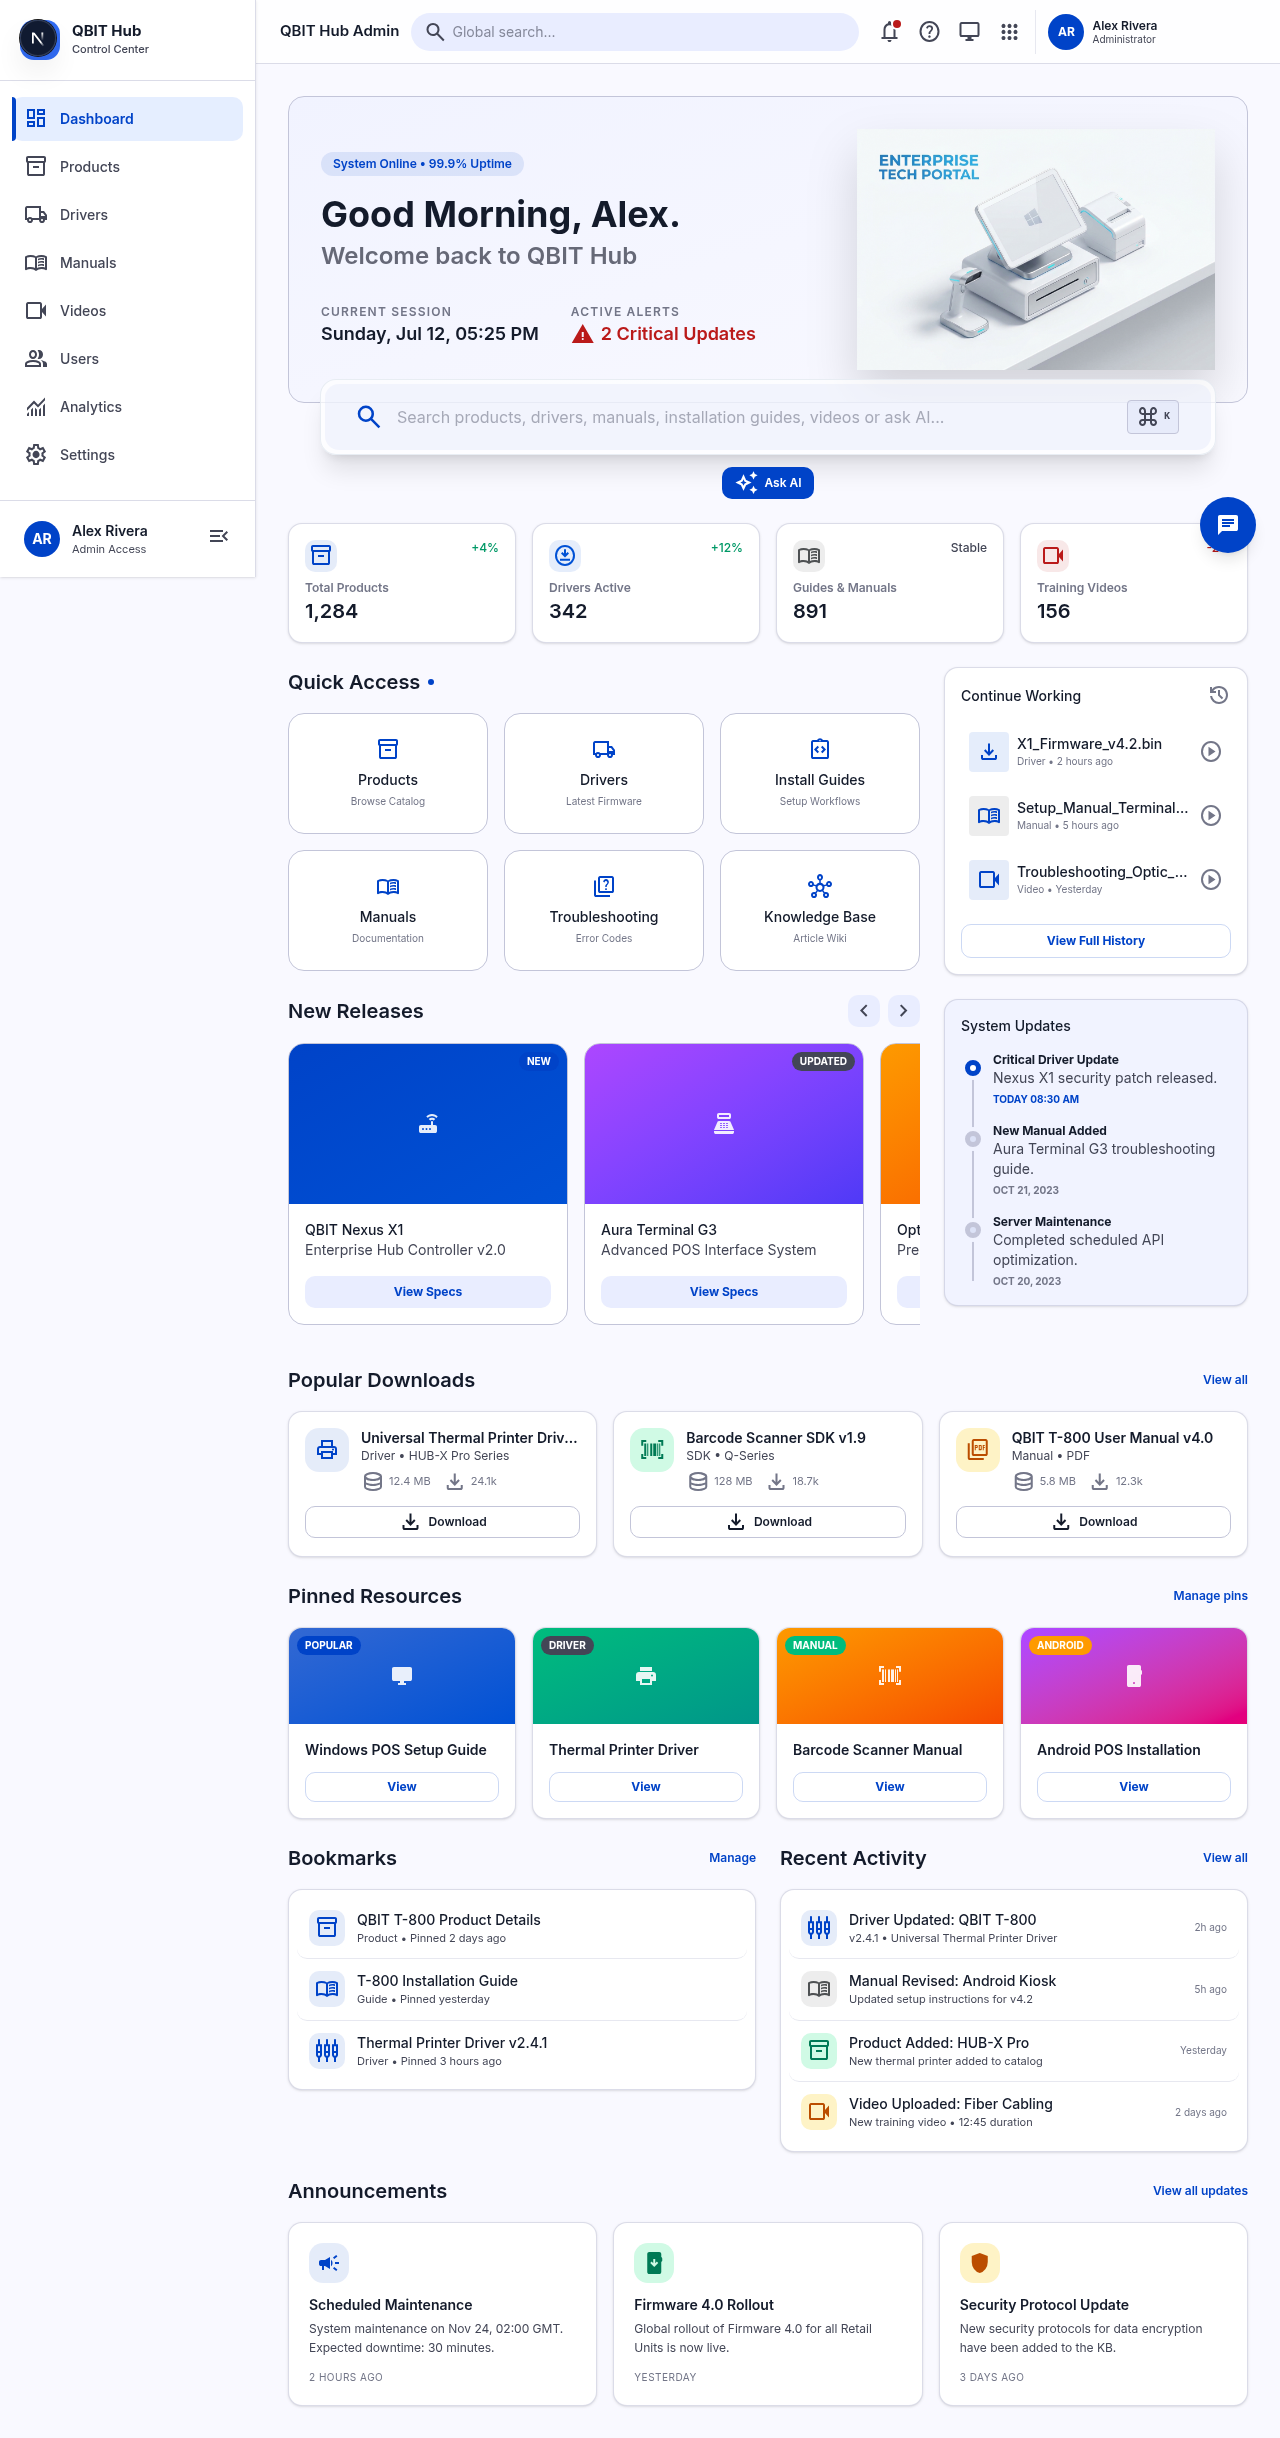
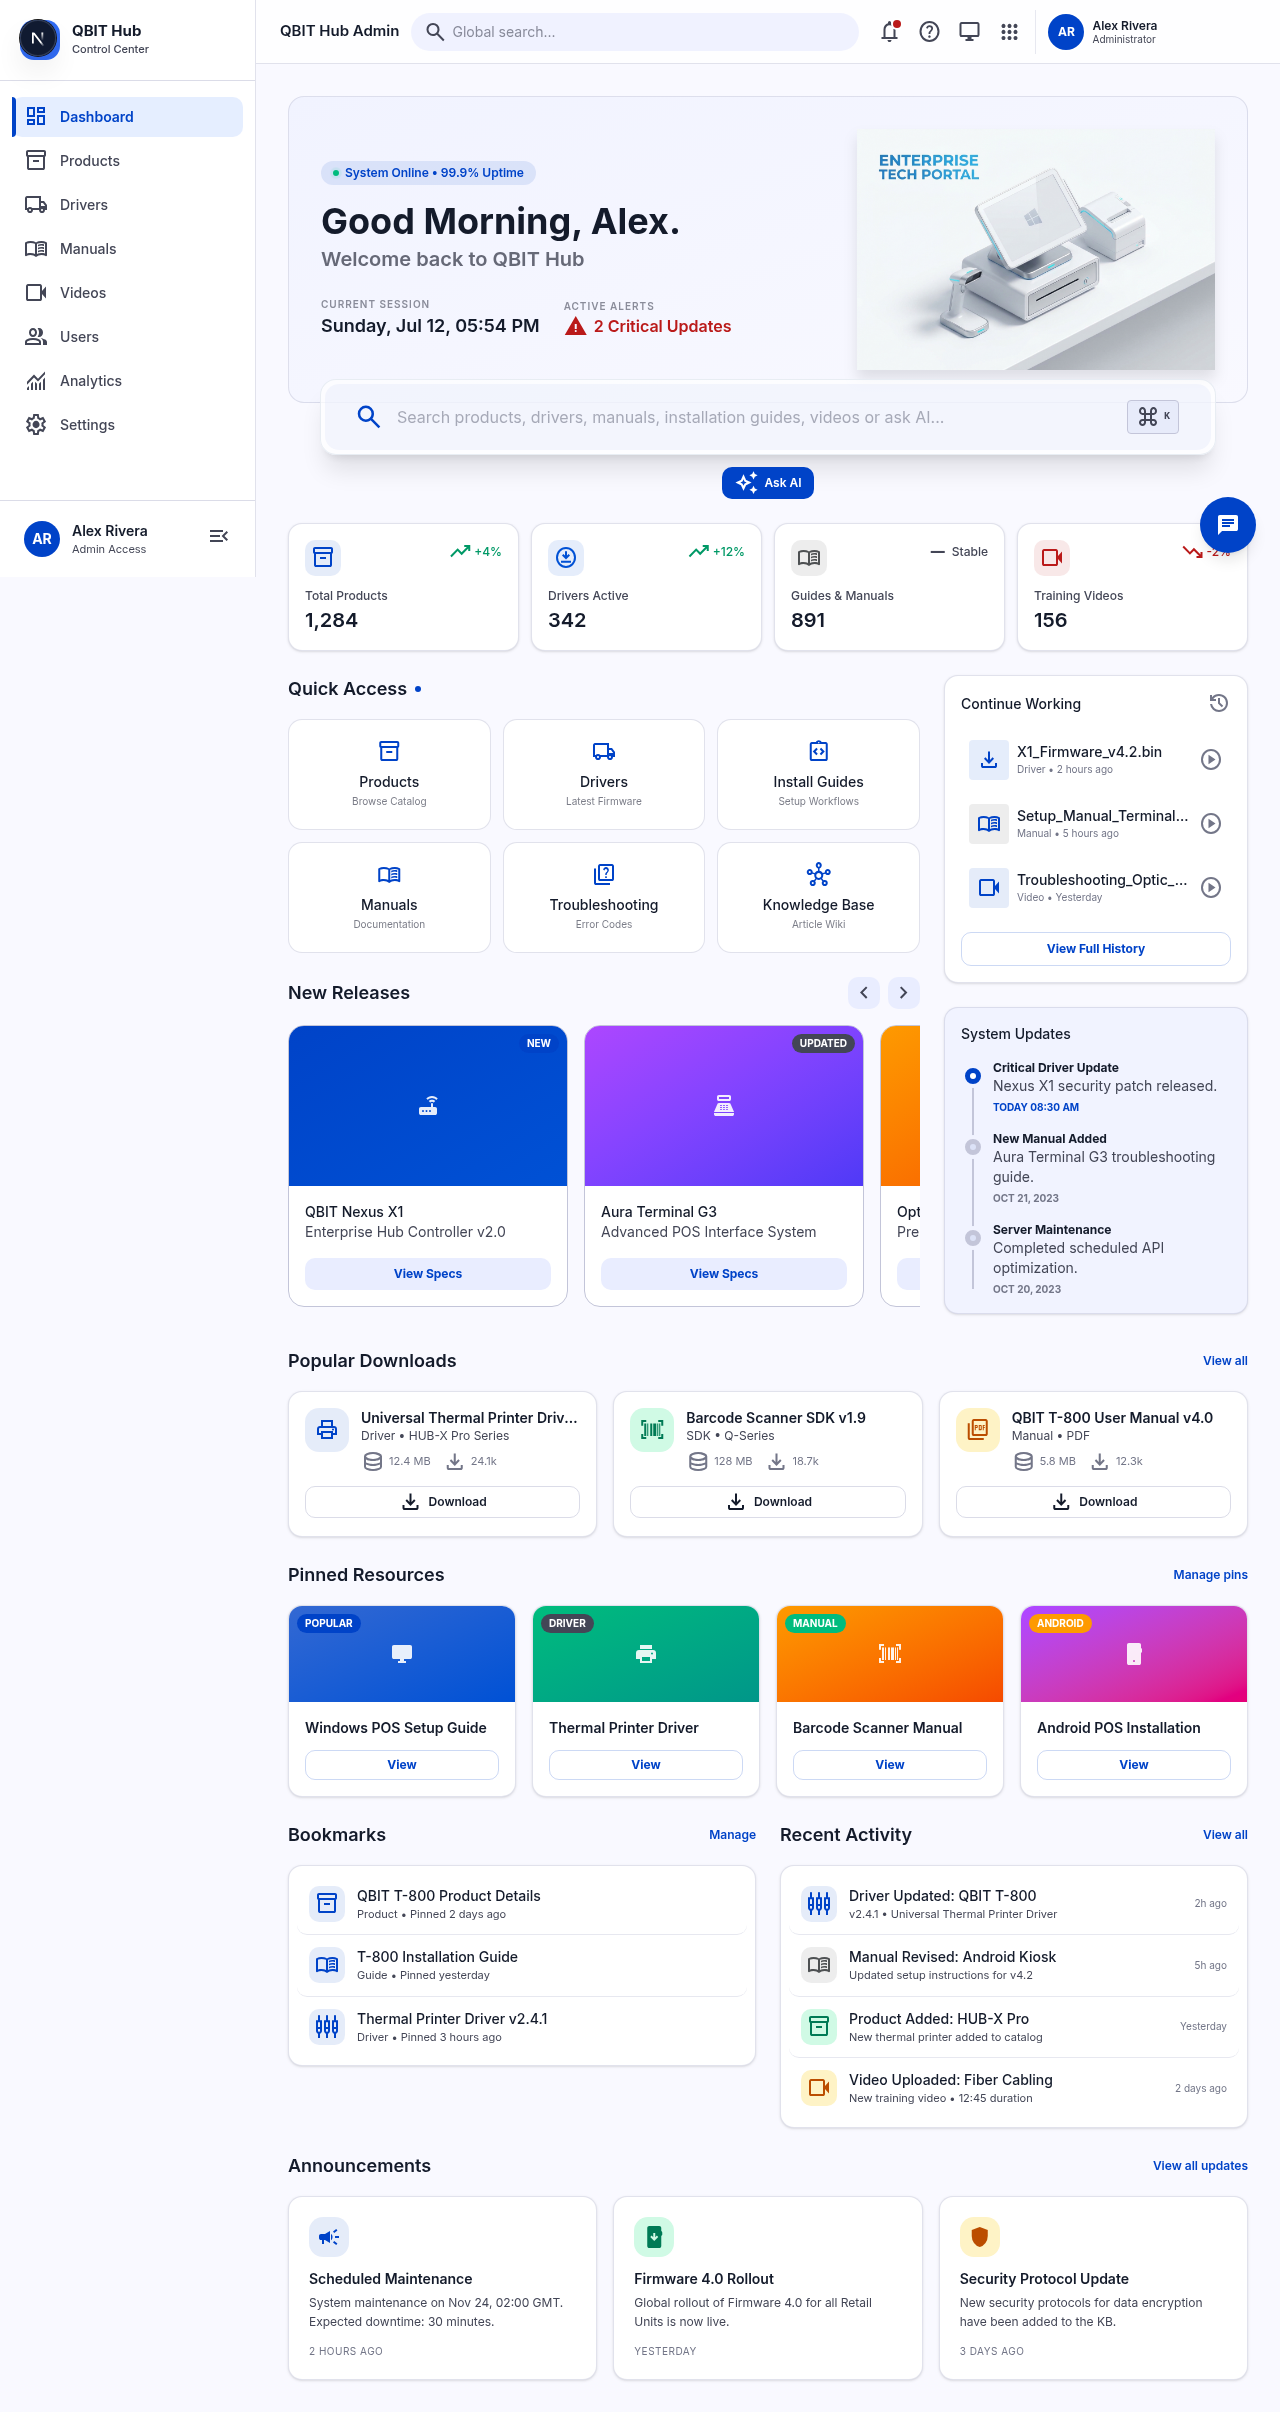
e44fb069-3221-4932-9b42-e9f4ee83866b

diff --git a/src/components/qbit/dashboard/WelcomeHero.tsx b/src/components/qbit/dashboard/WelcomeHero.tsx
@@ -42,20 +42,24 @@ export function WelcomeHero({
     : "—";
 
   return (
-    <section className="grid grid-cols-1 md:grid-cols-12 gap-6 items-center bg-gradient-to-br from-qbit-surface-container-low to-qbit-surface border border-qbit-outline-variant rounded-2xl overflow-hidden p-6 md:p-8 relative">
+    <section className="grid grid-cols-1 md:grid-cols-12 gap-6 items-center bg-gradient-to-br from-qbit-surface-container-low to-qbit-surface border border-qbit-outline-variant/50 rounded-2xl overflow-hidden p-6 md:p-8 relative">
       <div className="md:col-span-7 z-10">
-        <span className="inline-block px-3 py-1 bg-qbit-primary/10 text-qbit-primary rounded-full text-xs font-semibold mb-4">
+        <span className="inline-flex items-center gap-1.5 px-3 py-1 bg-qbit-primary/10 text-qbit-primary rounded-full text-xs font-semibold mb-4">
+          <span className="relative flex h-1.5 w-1.5">
+            <span className="absolute inline-flex h-full w-full animate-ping rounded-full bg-emerald-400 opacity-75" />
+            <span className="relative inline-flex h-1.5 w-1.5 rounded-full bg-emerald-500" />
+          </span>
           System Online • 99.9% Uptime
         </span>
-        <h2 className="text-[36px] leading-[44px] font-bold text-qbit-on-surface mb-1">
+        <h2 className="text-3xl md:text-4xl font-bold text-qbit-on-surface mb-1">
           {greeting}, {userName}.
         </h2>
-        <h3 className="text-[24px] leading-[32px] font-semibold text-qbit-on-surface-variant mb-8 opacity-80">
+        <h3 className="text-lg md:text-xl font-semibold text-qbit-on-surface-variant mb-6 opacity-80">
           Welcome back to QBIT Hub
         </h3>
-        <div className="flex flex-wrap items-center gap-8">
+        <div className="flex flex-wrap items-center gap-6">
           <div className="flex flex-col">
-            <span className="text-xs font-semibold uppercase tracking-widest text-qbit-outline">
+            <span className="text-[10px] font-semibold uppercase tracking-widest text-qbit-on-surface-variant/60">
               Current Session
             </span>
             <span className="text-lg font-semibold text-qbit-on-surface">
@@ -63,21 +67,22 @@ export function WelcomeHero({
             </span>
           </div>
           <div className="flex flex-col">
-            <span className="text-xs font-semibold uppercase tracking-widest text-qbit-outline">
+            <span className="text-[10px] font-semibold uppercase tracking-widest text-qbit-on-surface-variant/60">
               Active Alerts
             </span>
-            <span className="text-lg font-semibold text-qbit-error flex items-center gap-1.5">
-              <Icon name="warning" className="text-[18px]" filled />
+            <span className="text-base font-semibold text-qbit-error flex items-center gap-1.5">
+              <Icon name="warning" className="text-[16px]" filled />
               2 Critical Updates
             </span>
           </div>
         </div>
       </div>
-      <div className="md:col-span-5 relative h-48 md:h-full flex items-center justify-center">
+      <div className="md:col-span-5 relative h-40 md:h-full flex items-center justify-center">
         <img
           src={heroImage}
           alt="Enterprise portal hero illustration"
-          className="object-contain max-h-72 w-full drop-shadow-2xl transition-transform hover:scale-105 duration-700"
+          loading="lazy"
+          className="object-contain max-h-64 w-full drop-shadow-xl transition-transform hover:scale-105 duration-700"
         />
       </div>
     </section>

diff --git a/src/components/qbit/primitives/QbitButton.tsx b/src/components/qbit/primitives/QbitButton.tsx
@@ -17,13 +17,20 @@ export interface QbitButtonProps
 }
 
 const VARIANT_CLASS: Record<QbitButtonVariant, string> = {
-  primary: "bg-qbit-primary text-qbit-on-primary hover:bg-qbit-primary-container hover:shadow-lg hover:shadow-qbit-primary/20 active:scale-[0.98]",
-  "primary-container": "bg-qbit-primary-container text-qbit-on-primary-container hover:brightness-110 hover:shadow-md active:scale-[0.98]",
-  secondary: "bg-qbit-secondary-container text-qbit-on-secondary-container hover:brightness-110 hover:shadow-md active:scale-[0.98]",
-  outline: "border border-qbit-outline-variant bg-transparent text-qbit-on-surface hover:bg-qbit-surface-container hover:border-qbit-outline active:scale-[0.98]",
-  danger: "bg-qbit-error text-qbit-on-error hover:brightness-110 hover:shadow-md hover:shadow-qbit-error/20 active:scale-[0.98]",
-  ghost: "text-qbit-on-surface-variant hover:bg-qbit-surface-container active:scale-[0.98]",
-  surface: "bg-qbit-surface-container-low text-qbit-on-surface hover:bg-qbit-surface-container border border-qbit-outline-variant/60 active:scale-[0.98]",
+  primary:
+    "bg-qbit-primary text-qbit-on-primary hover:bg-qbit-primary-container hover:shadow-md hover:shadow-qbit-primary/20 active:scale-[0.98]",
+  "primary-container":
+    "bg-qbit-primary-container text-qbit-on-primary-container hover:brightness-110 hover:shadow-md active:scale-[0.98]",
+  secondary:
+    "bg-qbit-secondary-container text-qbit-on-secondary-container hover:brightness-110 hover:shadow-md active:scale-[0.98]",
+  outline:
+    "border border-qbit-outline-variant/60 bg-transparent text-qbit-on-surface hover:bg-qbit-surface-container hover:border-qbit-outline active:scale-[0.98]",
+  danger:
+    "bg-qbit-error text-qbit-on-error hover:brightness-110 hover:shadow-md hover:shadow-qbit-error/20 active:scale-[0.98]",
+  ghost:
+    "text-qbit-on-surface-variant hover:bg-qbit-surface-container hover:text-qbit-on-surface active:scale-[0.98]",
+  surface:
+    "bg-qbit-surface-container-low text-qbit-on-surface hover:bg-qbit-surface-container border border-qbit-outline-variant/50 active:scale-[0.98]",
 };
 
 const SIZE_CLASS: Record<QbitButtonSize, string> = {
@@ -47,7 +54,7 @@ export function QbitButton({
   return (
     <button
       className={cn(
-        "inline-flex items-center justify-center font-semibold transition-all duration-200 active:scale-95 disabled:opacity-40 disabled:pointer-events-none disabled:active:scale-100",
+        "inline-flex items-center justify-center font-semibold transition-all duration-200 active:scale-[0.98] disabled:opacity-50 disabled:pointer-events-none disabled:active:scale-100",
         VARIANT_CLASS[variant],
         SIZE_CLASS[size],
         fullWidth && "w-full",

diff --git a/src/components/qbit/dashboard/SystemStatus.tsx b/src/components/qbit/dashboard/SystemStatus.tsx
@@ -11,7 +11,7 @@ import type { SystemStatusItem } from "./types";
  */
 export function SystemStatus({ items }: { items: SystemStatusItem[] }) {
   return (
-    <section className="grid grid-cols-2 md:grid-cols-4 gap-4">
+    <section className="grid grid-cols-2 md:grid-cols-4 gap-3">
       {items.map((item) => (
         <SystemStatusCard key={item.label} item={item} />
       ))}
@@ -27,25 +27,28 @@ function SystemStatusCard({ item }: { item: SystemStatusItem }) {
         ? "text-qbit-error"
         : "text-qbit-on-surface-variant";
 
+  const deltaIcon = item.deltaVariant === "up" ? "trending_up" : item.deltaVariant === "down" ? "trending_down" : "remove";
+
   return (
-    <SurfaceCard className="p-4 hover:shadow-md transition-shadow">
-      <div className="flex justify-between items-start mb-2">
+    <SurfaceCard className="p-4 hover:shadow-md transition-all duration-200">
+      <div className="flex justify-between items-start mb-3">
         <span
           className={cn(
-            "flex h-8 w-8 items-center justify-center rounded-lg",
+            "flex h-9 w-9 items-center justify-center rounded-lg",
             item.iconBg ?? "bg-qbit-primary/10 text-qbit-primary",
           )}
         >
           <Icon name={item.icon} className="text-[20px]" />
         </span>
         {item.delta && (
-          <span className={cn("text-xs font-medium flex items-center", deltaColor)}>
+          <span className={cn("text-xs font-medium flex items-center gap-0.5", deltaColor)}>
+            <Icon name={deltaIcon} className="text-[14px]" />
             {item.delta}
           </span>
         )}
       </div>
-      <p className="text-xs font-semibold text-qbit-outline">{item.label}</p>
-      <p className="text-[20px] font-semibold text-qbit-on-surface">{item.value}</p>
+      <p className="text-xs font-medium text-qbit-on-surface-variant">{item.label}</p>
+      <p className="text-xl font-semibold text-qbit-on-surface mt-0.5">{item.value}</p>
     </SurfaceCard>
   );
 }

diff --git a/src/components/qbit/admin/AdminStatsCard.tsx b/src/components/qbit/admin/AdminStatsCard.tsx
@@ -11,17 +11,13 @@ const DELTA_CLASS = {
   neutral: "text-qbit-on-surface-variant",
 } as const;
 
-/**
- * AdminStatsCard — KPI widget matching the Stitch design exactly.
- * Uses p-4 padding, hover:shadow-md, icon with p-xs bg color.
- */
 export function AdminStatsCard({ stat }: { stat: AdminStatItem }) {
   const deltaIcon = stat.deltaVariant === "up" ? "trending_up" : stat.deltaVariant === "down" ? "trending_down" : "remove";
 
   return (
-    <SurfaceCard className="p-4 hover:shadow-md transition-shadow">
-      <div className="flex justify-between items-start mb-2">
-        <span className={cn("flex h-8 w-8 items-center justify-center rounded-lg", stat.iconBg ?? "bg-qbit-primary/10 text-qbit-primary")}>
+    <SurfaceCard className="p-4 hover:shadow-md transition-all duration-200">
+      <div className="flex justify-between items-start mb-3">
+        <span className={cn("flex h-9 w-9 items-center justify-center rounded-lg", stat.iconBg ?? "bg-qbit-primary/10 text-qbit-primary")}>
           <Icon name={stat.icon} className="text-[20px]" />
         </span>
         {stat.delta && (
@@ -31,13 +27,12 @@ export function AdminStatsCard({ stat }: { stat: AdminStatItem }) {
           </span>
         )}
       </div>
-      <p className="text-xs font-semibold text-qbit-outline">{stat.label}</p>
-      <p className="text-[20px] font-semibold text-qbit-on-surface">{stat.value}</p>
+      <p className="text-xs font-medium text-qbit-on-surface-variant">{stat.label}</p>
+      <p className="text-xl font-semibold text-qbit-on-surface mt-0.5">{stat.value}</p>
     </SurfaceCard>
   );
 }
 
-/** Grid of AdminStatsCards. */
 export function AdminStatsGrid({ stats }: { stats: AdminStatItem[] }) {
   return (
     <div className="grid grid-cols-2 sm:grid-cols-3 lg:grid-cols-4 xl:grid-cols-7 gap-3">

diff --git a/src/components/qbit/dashboard/SectionHeader.tsx b/src/components/qbit/dashboard/SectionHeader.tsx
@@ -16,18 +16,15 @@ export function SectionHeader({
   className,
 }: {
   title: string;
-  /** Show a small primary-colored dot after the title (Stitch pattern). */
   accentDot?: boolean;
-  /** If provided, renders a text-link action button on the right. */
   actionLabel?: string;
   onAction?: () => void;
-  /** Alternative to actionLabel — render arbitrary content on the right. */
   rightContent?: React.ReactNode;
   className?: string;
 }) {
   return (
     <div className={cn("flex items-center justify-between mb-4", className)}>
-      <h3 className="text-[20px] font-semibold text-qbit-on-surface flex items-center gap-2">
+      <h3 className="text-lg font-semibold text-qbit-on-surface flex items-center gap-2">
         {title}
         {accentDot && <span className="w-1.5 h-1.5 rounded-full bg-qbit-primary" />}
       </h3>
@@ -35,7 +32,7 @@ export function SectionHeader({
         actionLabel && (
           <button
             onClick={onAction}
-            className="text-xs font-semibold text-qbit-primary hover:underline"
+            className="text-xs font-semibold text-qbit-primary hover:underline transition-colors"
           >
             {actionLabel}
           </button>
@@ -58,16 +55,16 @@ export function CarouselNav({
       <button
         onClick={onPrev}
         aria-label="Previous"
-        className="flex h-8 w-8 items-center justify-center rounded-lg bg-qbit-surface-container text-qbit-on-surface-variant hover:bg-qbit-primary hover:text-white transition-colors"
+        className="flex h-8 w-8 items-center justify-center rounded-lg bg-qbit-surface-container text-qbit-on-surface-variant hover:bg-qbit-primary hover:text-white transition-all duration-200 active:scale-95"
       >
         <Icon name="chevron_left" className="text-[18px]" />
       </button>
       <button
         onClick={onNext}
         aria-label="Next"
-        className="flex h-8 w-8 items-center justify-center rounded-lg bg-qbit-surface-container text-qbit-on-surface-variant hover:bg-qbit-primary hover:text-white transition-colors"
+        className="flex h-8 w-8 items-center justify-center rounded-lg bg-qbit-surface-container text-qbit-on-surface-variant hover:bg-qbit-primary hover:text-white transition-all duration-200 active:scale-95"
       >
-        <Icon name="chevron_right" className="text-[18px]" />
+        <Icon name="chevron_right" className="text-[18px]"      />
       </button>
     </div>
   );

diff --git a/src/components/qbit/dashboard/QuickAccess.tsx b/src/components/qbit/dashboard/QuickAccess.tsx
@@ -16,21 +16,21 @@ export function QuickAccess({ items }: { items: QuickAccessItem[] }) {
   return (
     <section>
       <SectionHeader title="Quick Access" accentDot />
-      <div className="grid grid-cols-2 sm:grid-cols-3 gap-4">
+      <div className="grid grid-cols-2 sm:grid-cols-3 gap-3">
         {items.map((item) => (
           <button
             key={item.label}
             onClick={() => item.screen && navigate(item.screen)}
-            className="flex flex-col items-center text-center p-6 bg-qbit-surface-container-lowest border border-qbit-outline-variant rounded-2xl hover:border-qbit-primary hover:bg-qbit-primary/5 transition-all group"
+            className="flex flex-col items-center text-center p-5 bg-qbit-surface-container-lowest border border-qbit-outline-variant/50 rounded-xl hover:border-qbit-primary/40 hover:bg-qbit-primary/5 hover:shadow-sm transition-all duration-200 group"
           >
             <Icon
               name={item.icon}
-              className="text-qbit-primary mb-2 text-[36px] transition-transform group-hover:rotate-12"
+              className="text-qbit-primary mb-2 text-[32px] transition-transform duration-200 group-hover:scale-110"
             />
-            <span className="text-sm font-medium text-qbit-on-surface mb-1">
+            <span className="text-sm font-medium text-qbit-on-surface mb-0.5">
               {item.label}
             </span>
-            <span className="text-[10px] text-qbit-outline">{item.sub}</span>
+            <span className="text-[10px] text-qbit-on-surface-variant/70">{item.sub}</span>
           </button>
         ))}
       </div>

diff --git a/src/components/qbit/primitives/GlassCard.tsx b/src/components/qbit/primitives/GlassCard.tsx
@@ -12,8 +12,8 @@ export function GlassCard({
   return (
     <div
       className={cn(
-        "glass-card rounded-xl shadow-sm",
-        hover && "card-hover-lift",
+        "glass-card rounded-xl shadow-sm transition-all duration-200",
+        hover && "hover:shadow-md hover:-translate-y-0.5",
         className,
       )}
       {...rest}
@@ -33,8 +33,8 @@ export function SurfaceCard({
   return (
     <div
       className={cn(
-        "bg-qbit-surface-container-lowest border border-qbit-outline-variant/60 rounded-xl shadow-sm transition-all duration-200",
-        hover && "hover:shadow-md hover:border-qbit-outline-variant",
+        "bg-qbit-surface-container-lowest border border-qbit-outline-variant/50 rounded-xl shadow-sm transition-all duration-200",
+        hover && "hover:shadow-md hover:-translate-y-0.5 hover:border-qbit-outline-variant",
         className,
       )}
       {...rest}
@@ -58,7 +58,7 @@ export function Pill({
     <span
       className={cn(
         "inline-flex items-center gap-1.5 rounded-full px-3 py-1 text-xs font-medium",
-        "bg-qbit-surface-container-low text-qbit-on-surface-variant border border-qbit-outline-variant/60",
+        "bg-qbit-surface-container-low text-qbit-on-surface-variant border border-qbit-outline-variant/50",
         className,
       )}
     >

diff --git a/src/components/qbit/primitives/KpiCard.tsx b/src/components/qbit/primitives/KpiCard.tsx
@@ -32,9 +32,9 @@ export function KpiCard({
   const deltaIcon = deltaVariant === "up" ? "trending_up" : deltaVariant === "down" ? "trending_down" : "remove";
 
   return (
-    <SurfaceCard className={cn("p-4 hover:shadow-md transition-shadow", className)}>
-      <div className="flex justify-between items-start mb-2">
-        <span className={cn("flex h-8 w-8 items-center justify-center rounded-lg", iconBg)}>
+    <SurfaceCard className={cn("p-4 hover:shadow-md transition-all duration-200", className)}>
+      <div className="flex justify-between items-start mb-3">
+        <span className={cn("flex h-9 w-9 items-center justify-center rounded-lg", iconBg)}>
           <Icon name={icon} className="text-[20px]" />
         </span>
         {delta && (
@@ -44,8 +44,8 @@ export function KpiCard({
           </span>
         )}
       </div>
-      <p className="text-xs font-semibold text-qbit-outline">{label}</p>
-      <p className="text-[20px] font-semibold text-qbit-on-surface">{value}</p>
+      <p className="text-xs font-medium text-qbit-on-surface-variant">{label}</p>
+      <p className="text-xl font-semibold text-qbit-on-surface mt-0.5">{value}</p>
     </SurfaceCard>
   );
 }

diff --git a/src/components/qbit/dashboard/EmptyState.tsx b/src/components/qbit/dashboard/EmptyState.tsx
@@ -24,12 +24,12 @@ export function EmptyState({
   className?: string;
 }) {
   return (
-    <div className={cn("flex flex-col items-center text-center py-8", className)}>
-      <div className="flex h-14 w-14 items-center justify-center rounded-2xl bg-qbit-surface-container-high text-qbit-on-surface-variant mb-3">
+    <div className={cn("flex flex-col items-center text-center py-10", className)}>
+      <div className="flex h-14 w-14 items-center justify-center rounded-2xl bg-qbit-surface-container text-qbit-on-surface-variant/60 mb-4">
         <Icon name={icon} className="text-[28px]" />
       </div>
       <p className="text-sm font-semibold text-qbit-on-surface">{title}</p>
-      <p className="mt-1 text-xs text-qbit-on-surface-variant max-w-xs leading-relaxed">
+      <p className="mt-1.5 text-xs text-qbit-on-surface-variant max-w-xs leading-relaxed">
         {description}
       </p>
       {actionLabel && onAction && (
@@ -38,7 +38,7 @@ export function EmptyState({
           variant="outline"
           icon="arrow_forward"
           onClick={onAction}
-          className="mt-4"
+          className="mt-5"
         >
           {actionLabel}
         </QbitButton>

diff --git a/src/components/qbit/shells/Sidebar.tsx b/src/components/qbit/shells/Sidebar.tsx
@@ -65,7 +65,7 @@ export function Sidebar({
   return (
     <aside
       className={cn(
-        "fixed left-0 top-0 z-40 flex h-full flex-col border-r border-qbit-outline-variant/60 bg-qbit-surface-container-lowest shadow-sm transition-all duration-300 ease-in-out",
+        "fixed left-0 top-0 z-40 flex h-full flex-col border-r border-qbit-outline-variant/50 bg-qbit-surface-container-lowest transition-all duration-300 ease-in-out",
         collapsed ? "w-20" : "w-64",
         className,
       )}
@@ -115,11 +115,11 @@ export function Sidebar({
                 <button
                   onClick={() => item.screen && navigate(item.screen)}
                   className={cn(
-                    "flex w-full items-center gap-3 rounded-lg px-3 py-2.5 text-sm font-medium transition-all duration-200",
+                    "flex w-full items-center gap-3 rounded-lg px-3 py-2 text-sm font-medium transition-all duration-200",
                     collapsed && "justify-center px-0",
                     active
                       ? "sidebar-active-indicator bg-qbit-primary-container/10 text-qbit-primary font-semibold"
-                      : "text-qbit-on-surface-variant hover:bg-qbit-surface-container-high hover:text-qbit-on-surface",
+                      : "text-qbit-on-surface-variant hover:bg-qbit-surface-container-low hover:text-qbit-on-surface",
                   )}
                   title={collapsed ? item.label : undefined}
                 >

diff --git a/src/app/globals.css b/src/app/globals.css
@@ -491,8 +491,8 @@
   transition: transform 0.2s ease, box-shadow 0.2s ease, border-color 0.2s ease;
 }
 .card-hover-lift:hover {
-  transform: translateY(-2px);
-  box-shadow: 0 8px 24px -8px rgba(17, 24, 39, 0.06), 0 2px 6px -2px rgba(17, 24, 39, 0.03);
+  transform: translateY(-1px);
+  box-shadow: 0 4px 12px -4px rgba(17, 24, 39, 0.06), 0 1px 3px -1px rgba(17, 24, 39, 0.03);
 }
 
 /* ===== Animation Utilities ===== */

diff --git a/src/components/qbit/shells/TopBar.tsx b/src/components/qbit/shells/TopBar.tsx
@@ -43,7 +43,7 @@ export function TopBar({
   rightTextIcon,
 }: TopBarProps) {
   return (
-    <header className="fixed top-0 right-0 z-30 flex h-16 items-center gap-3 border-b border-qbit-outline-variant/60 bg-qbit-surface-container-lowest/80 px-4 backdrop-blur-xl md:px-6"
+    <header className="fixed top-0 right-0 z-30 flex h-16 items-center gap-3 border-b border-qbit-outline-variant/50 bg-qbit-surface-container-lowest/80 px-4 backdrop-blur-xl md:px-6"
       style={{ left: "var(--sidebar-width, 256px)" }}
     >
       {/* Mobile menu */}
@@ -75,7 +75,7 @@ export function TopBar({
           onChange={(e) => onSearchChange?.(e.target.value)}
           onFocus={onSearchFocus}
           placeholder={searchPlaceholder}
-          className="w-full rounded-full border border-transparent bg-qbit-surface-container py-2 pl-10 pr-3 text-sm text-qbit-on-surface placeholder:text-qbit-on-surface-variant/60 transition-all duration-200 focus:bg-white focus:ring-2 focus:ring-qbit-primary/20 focus:border-qbit-primary focus:shadow-sm"
+          className="w-full rounded-full border border-transparent bg-qbit-surface-container/70 py-2 pl-10 pr-3 text-sm text-qbit-on-surface placeholder:text-qbit-on-surface-variant/60 transition-all duration-200 focus:bg-white focus:ring-2 focus:ring-qbit-primary/20 focus:border-qbit-primary focus:shadow-sm"
         />
         {showSearchKbd && (
           <kbd className="pointer-events-none absolute right-3 top-1/2 -translate-y-1/2 rounded border border-qbit-outline-variant bg-white px-1.5 py-0.5 text-[10px] font-bold text-qbit-on-surface-variant">